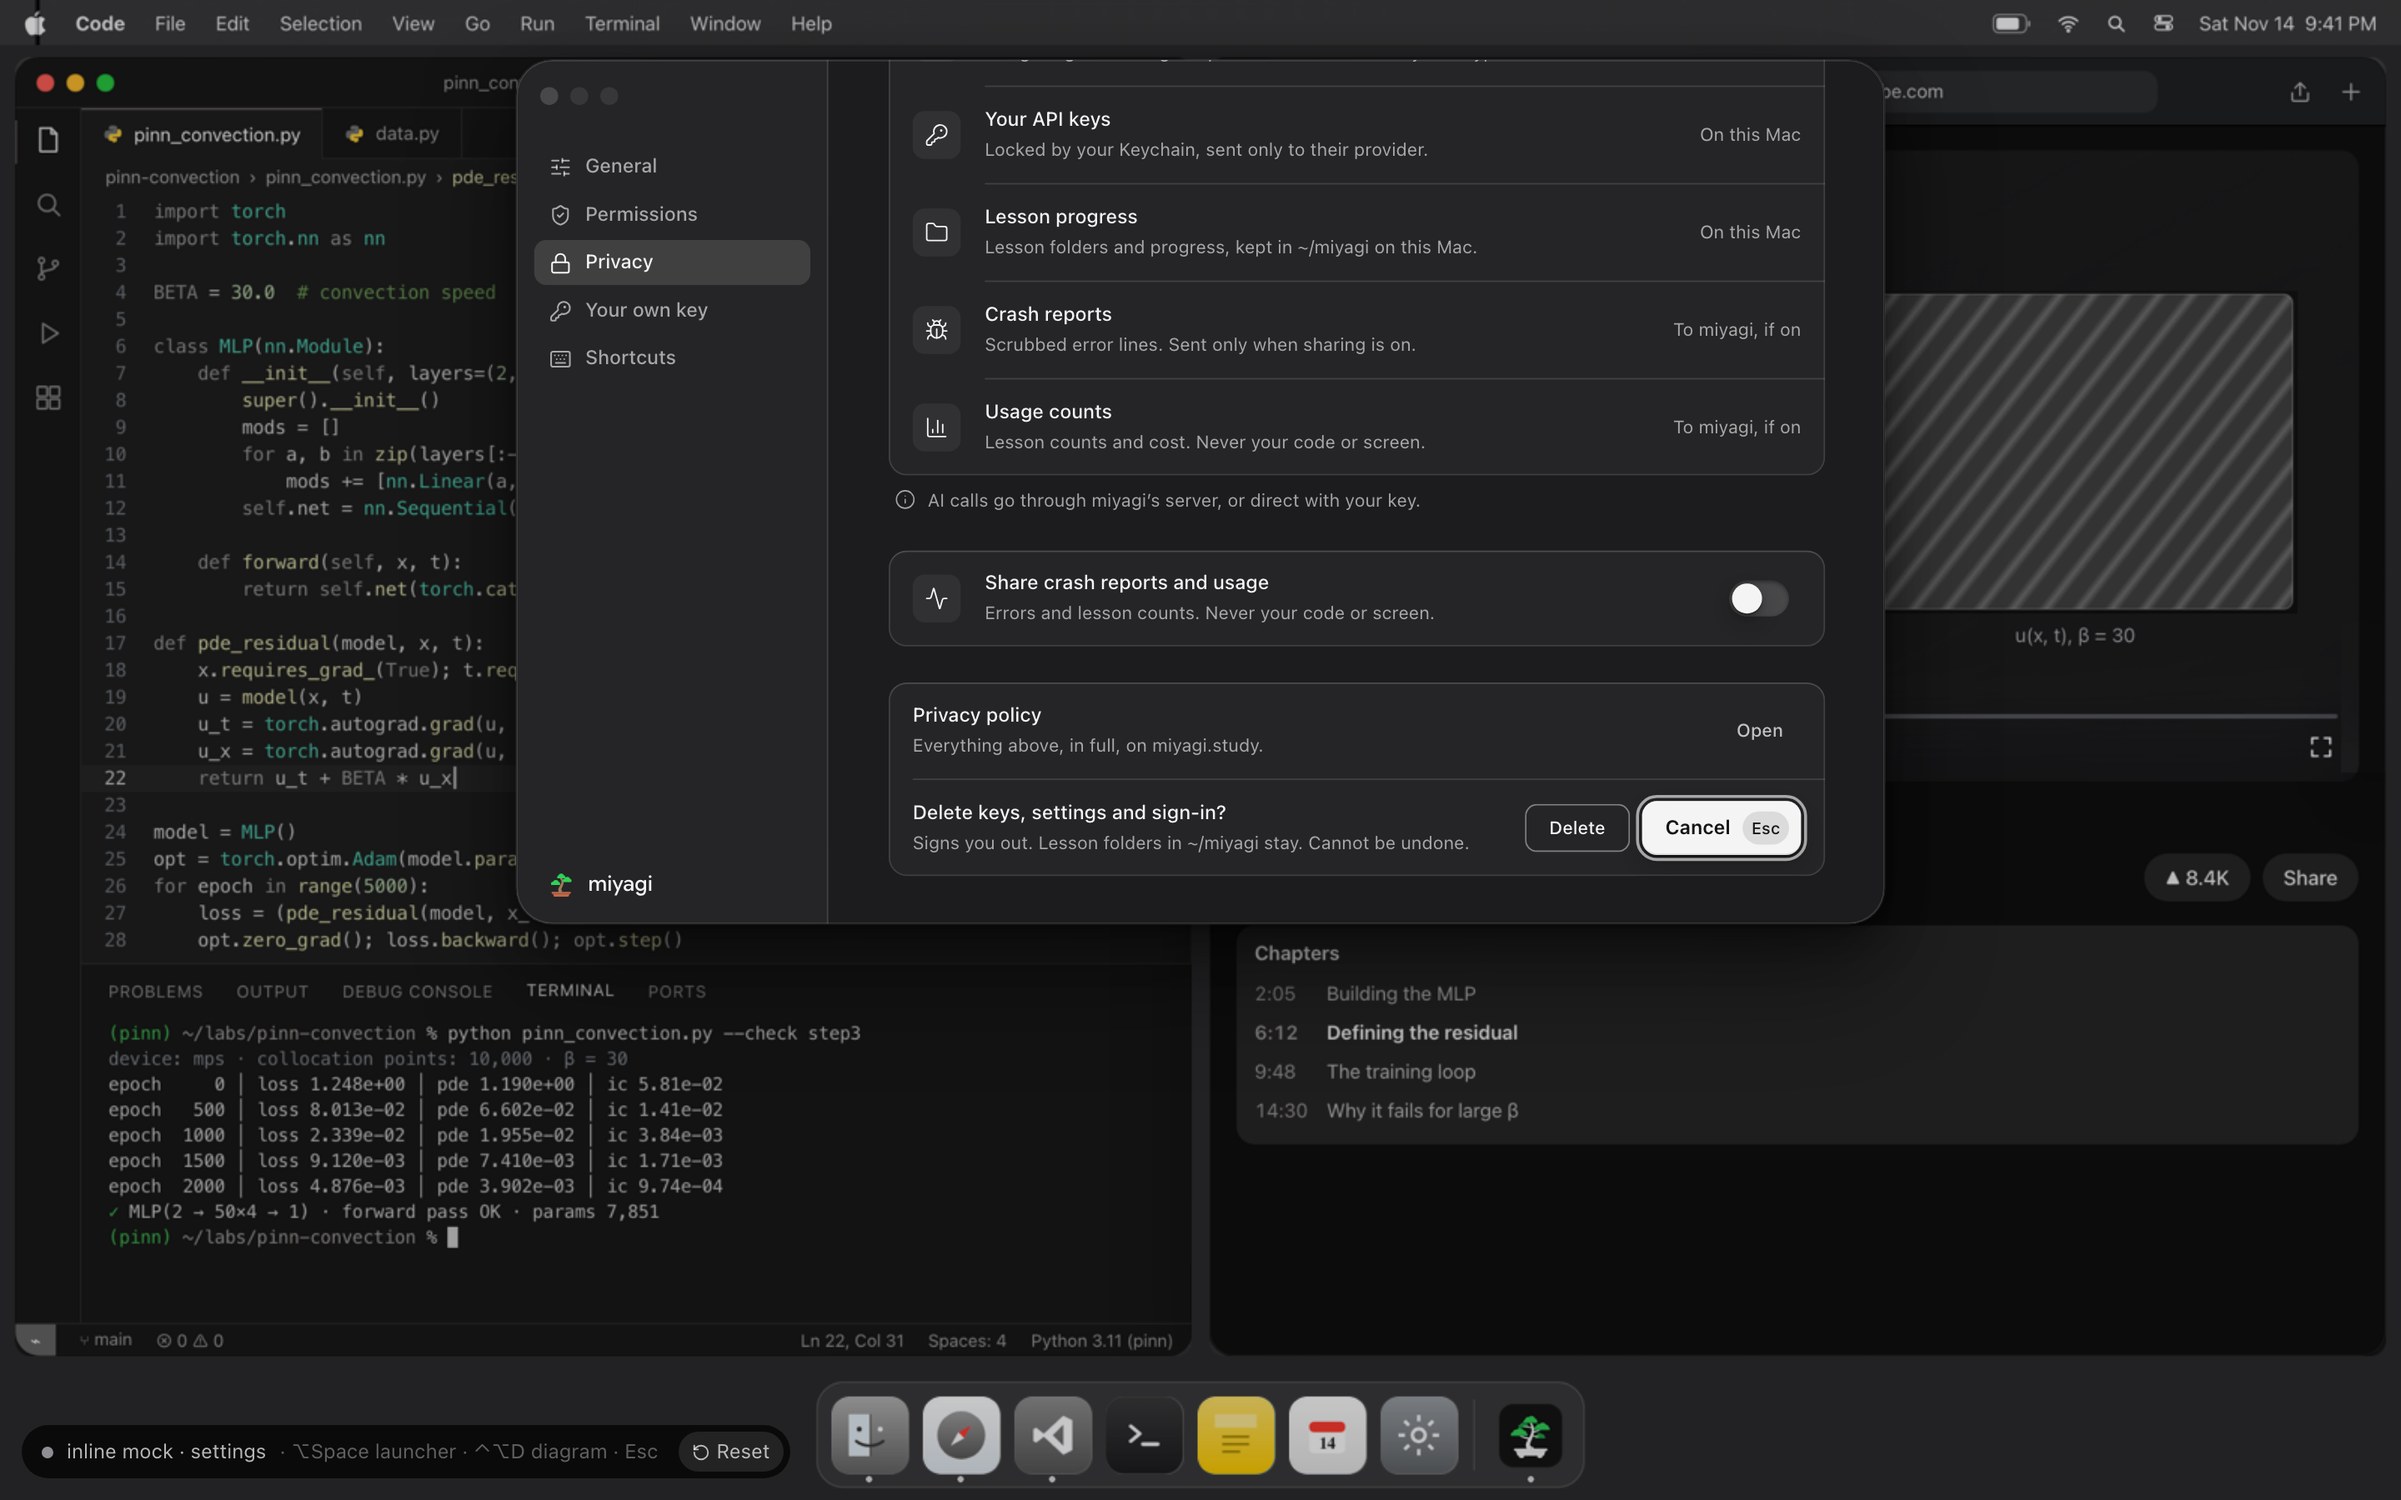
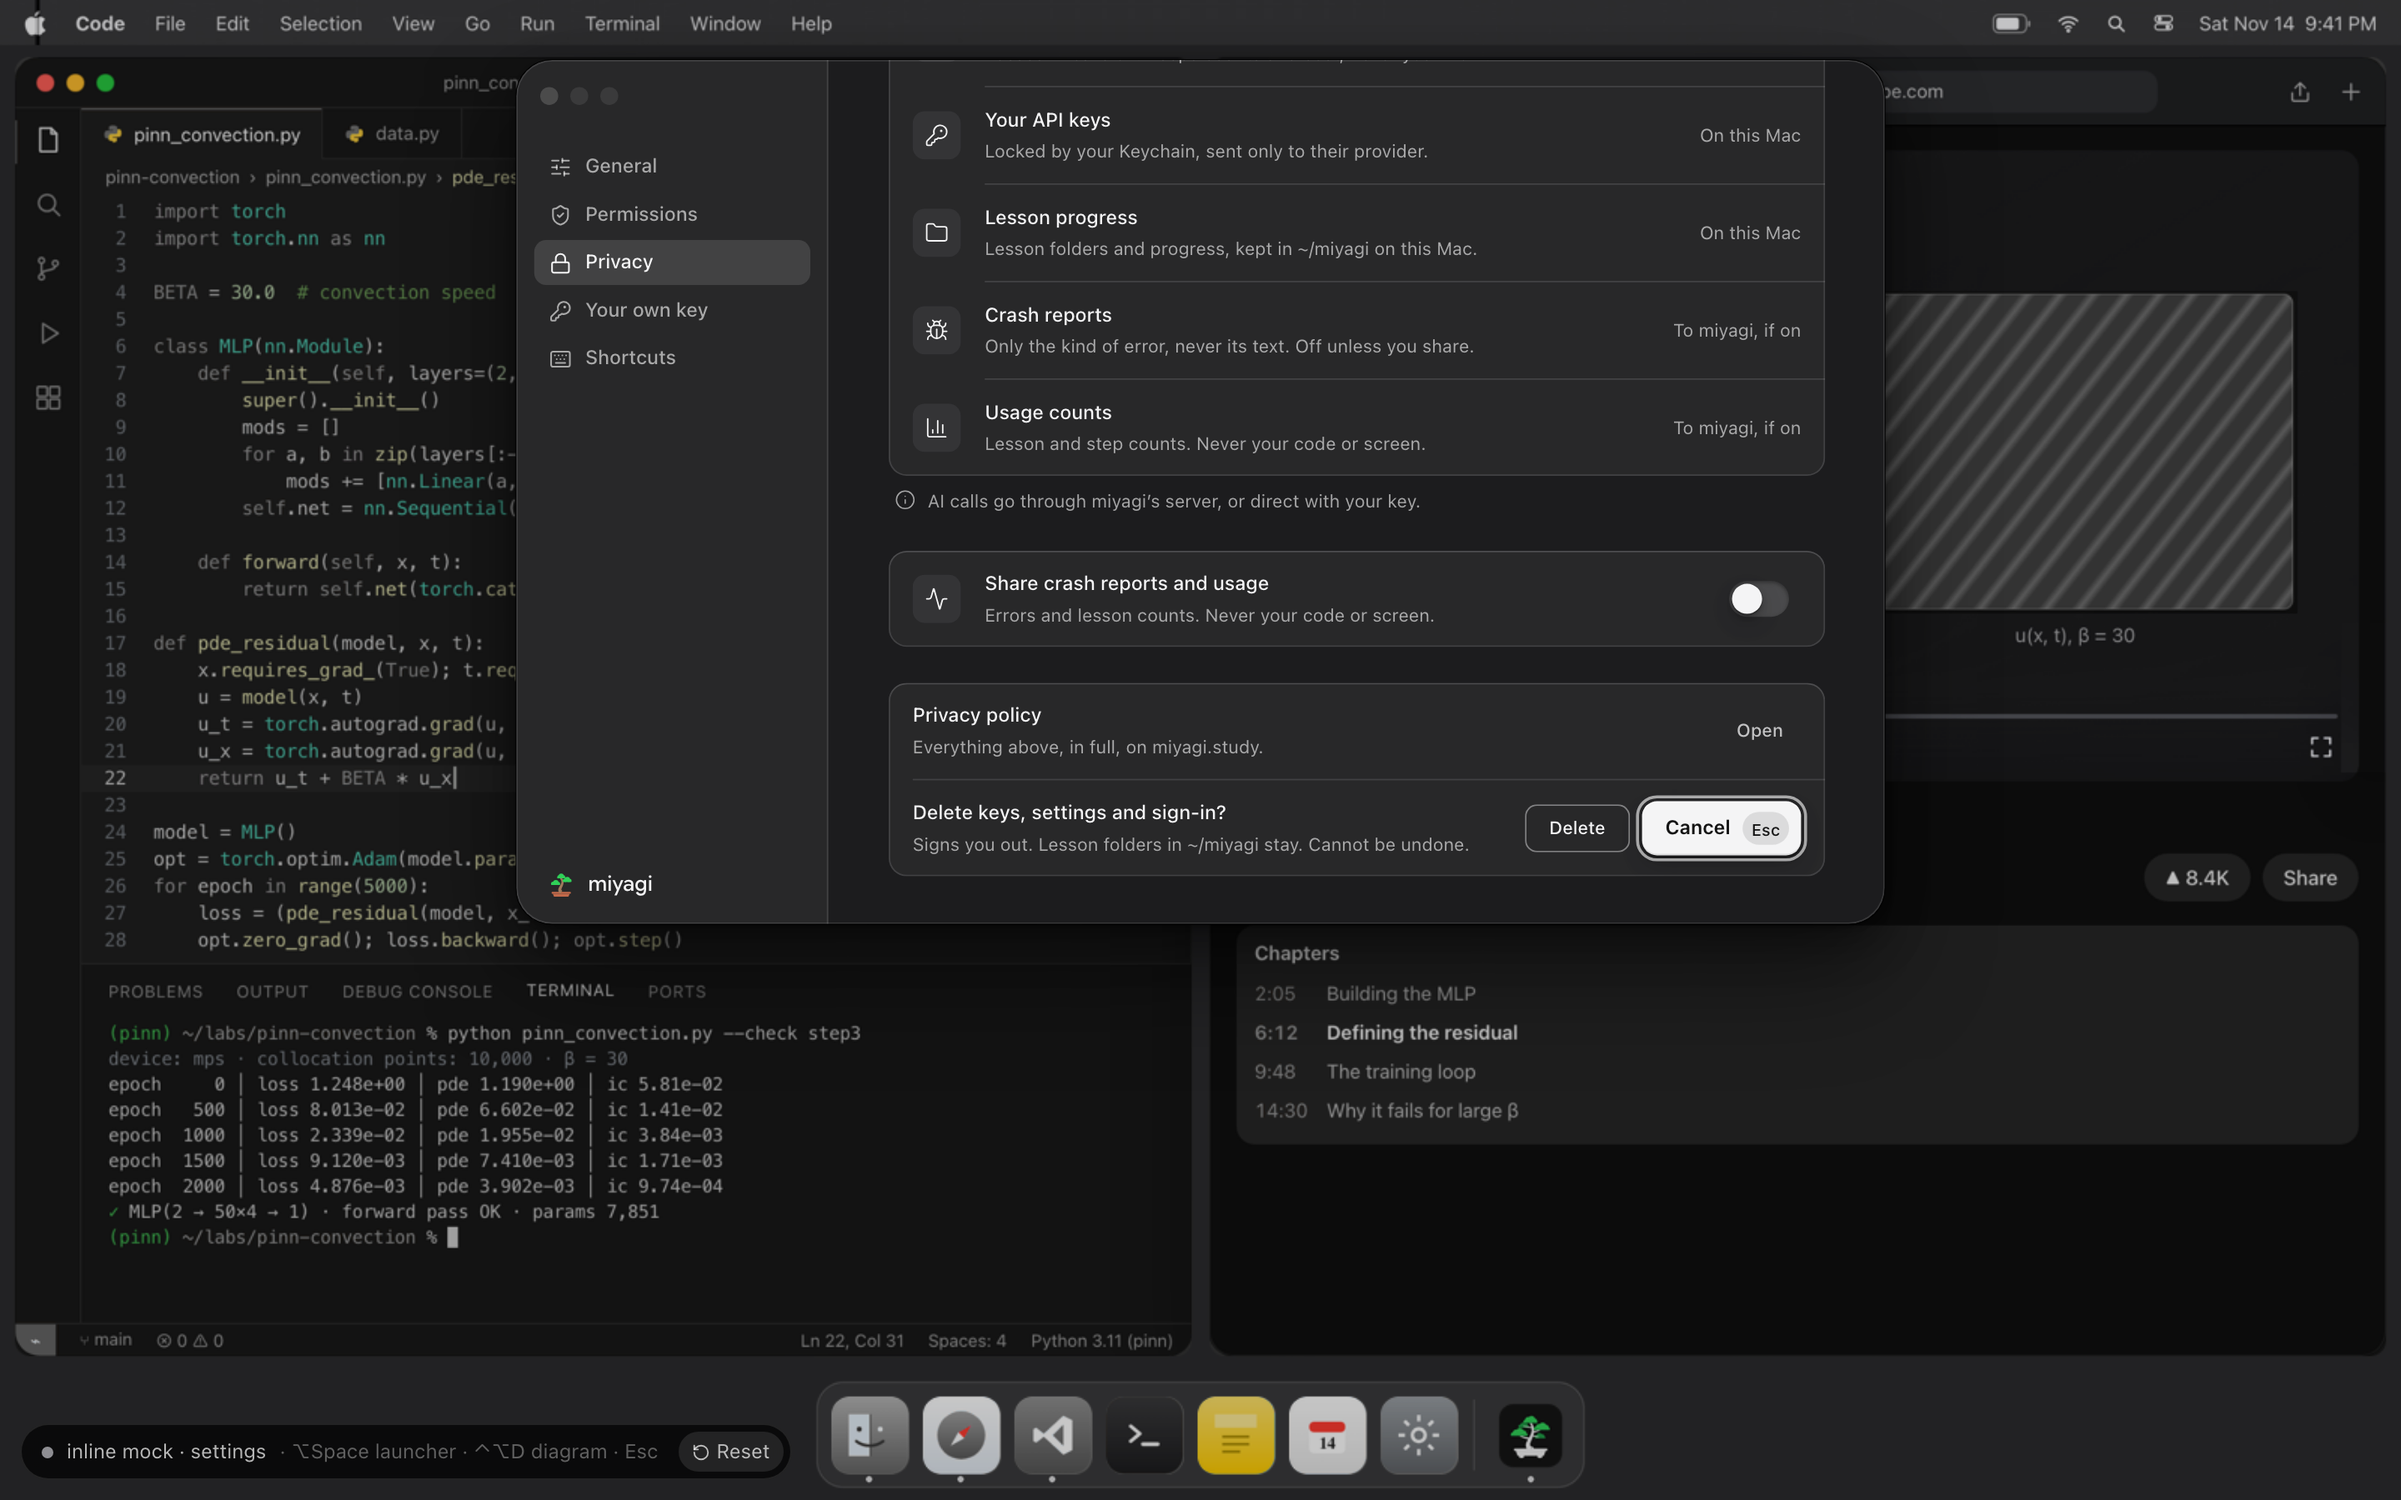
docs(app/privacy): retake stage shots headlessly; brief notes for fix round 1

diff --git a/app/agents/privacy.md b/app/agents/privacy.md
@@ -37,7 +37,10 @@ line each. A link opens the privacy policy. Delete my data erases everything miy
 ## Test
 `npm run dev:web -- --port 5615 --strictPort` → `http://localhost:5615/?scenario=settings&settings=privacy`
 (`&confirm=delete` opens on the delete confirm). Use the `settings` scenario, not `full`: `full` merges the player.
-Unit: `cd app && node --import tsx --test src/renderer/src/features/settings/privacy/facts.test.ts src/renderer/src/features/settings/privacy/erase.test.ts src/main/features/settings/erase.test.ts`
+Unit: the standard app command runs them: `cd app && node --import tsx --import ./test/setup.mjs --test --test-force-exit test/*.test.ts`
+(`test/privacy.test.ts` imports the three files that live next to their code). Alone:
+`cd app && node --import tsx --test src/renderer/src/features/settings/privacy/facts.test.ts src/renderer/src/features/settings/privacy/erase.test.ts src/main/features/settings/erase.test.ts`
+CI (ci.yml) runs only typecheck and lint, so these run by hand or in a review round.
 
 ## Notes (first pass)
 - `privacy/facts.ts` is the one list (screen, code, editor, searches, videos, sign-in, keys, progress, crash, usage).
@@ -105,8 +108,22 @@ Unit: `cd app && node --import tsx --test src/renderer/src/features/settings/pri
   The policy table has one row per panel row; facts.test.ts checks label and line together and the link and
   telemetry wording.
 - Delete my data also removes userData/cloud-link.json (the local note of the link, no token). The cloud row stays.
-- Stage shots not retaken this round (no visible windows allowed): privacy-panel.png shows the old crash and usage
-  lines and lacks the two new rows. Retake headlessly before merge.
+- Stage shots not retaken this round (no visible windows allowed); retaken in the next round (below).
+
+## Notes (finish round, fix round 1)
+- Merged origin/michael/v2-integration again (notch island); no conflicts.
+- web/privacy.md: app_installed sends `os: process.platform` ("darwin") and `arch()`, not the macOS version
+  (telemetry.ts, core.ts EVENT_PROPS). The bullet now says "the app version, the system (macOS) and the chip type".
+  The macOS version goes only to /v1/install (cloud.ts), which the miyagi-cloud section covers.
+- Comments in privacy/erase.ts, keys.ts (DeleteResult) and sections/Privacy.tsx now name cloud-link.json with
+  auth.bin and login.json, as main settings/erase.ts SIGN_IN_FILES does.
+- `test/privacy.test.ts` imports facts.test.ts, privacy/erase.test.ts and main settings/erase.test.ts, so the
+  standard `test/*.test.ts` command runs them (18 tests).
+- All three stage shots retaken headlessly: Playwright's cached headless_shell driven over CDP (no window, muted,
+  dark color scheme, 1440x900 @2x, `settings` scenario, no player), 1.5 s after "What miyagi sees" shows.
+  `privacy-panel.png` is scrolled 200 px so Account link and miyagi's server show; `privacy-data.png` is scrolled to
+  the bottom (new crash and usage lines, the switch, policy, delete); `privacy-confirm.png` is the same with
+  `&confirm=delete`. The old data and confirm shots also showed the replaced crash and usage lines.
 
 ## Merge status
 - v2-integration is merged into this branch; it can merge into michael/v2-integration after review. Draft PR #199
